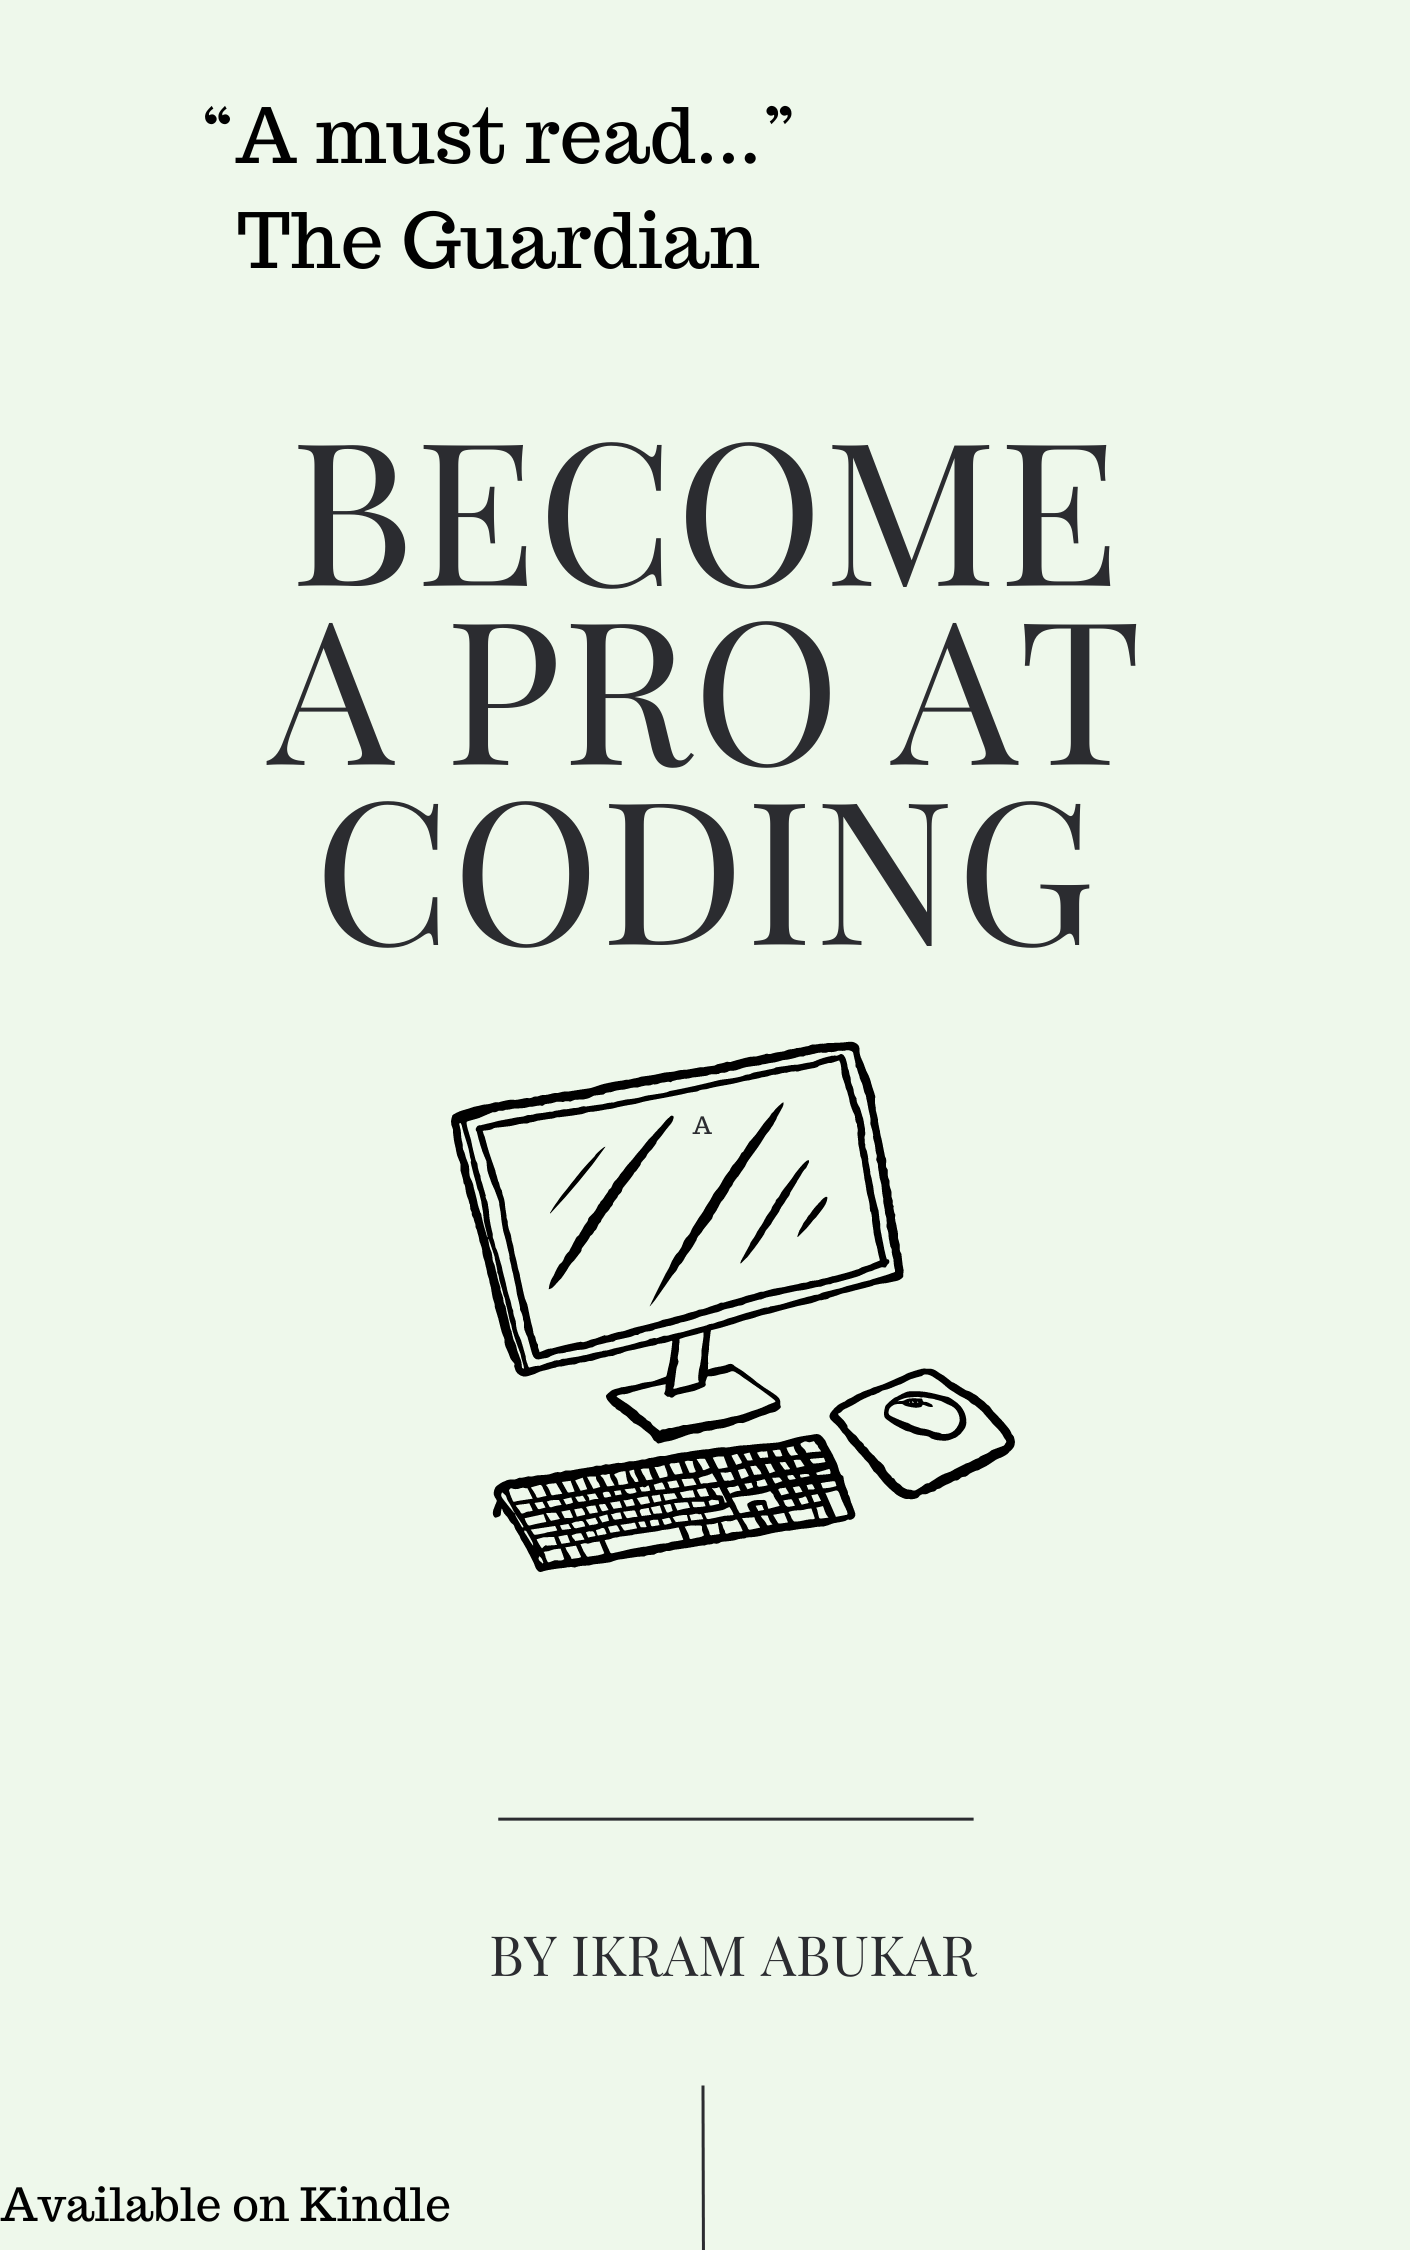
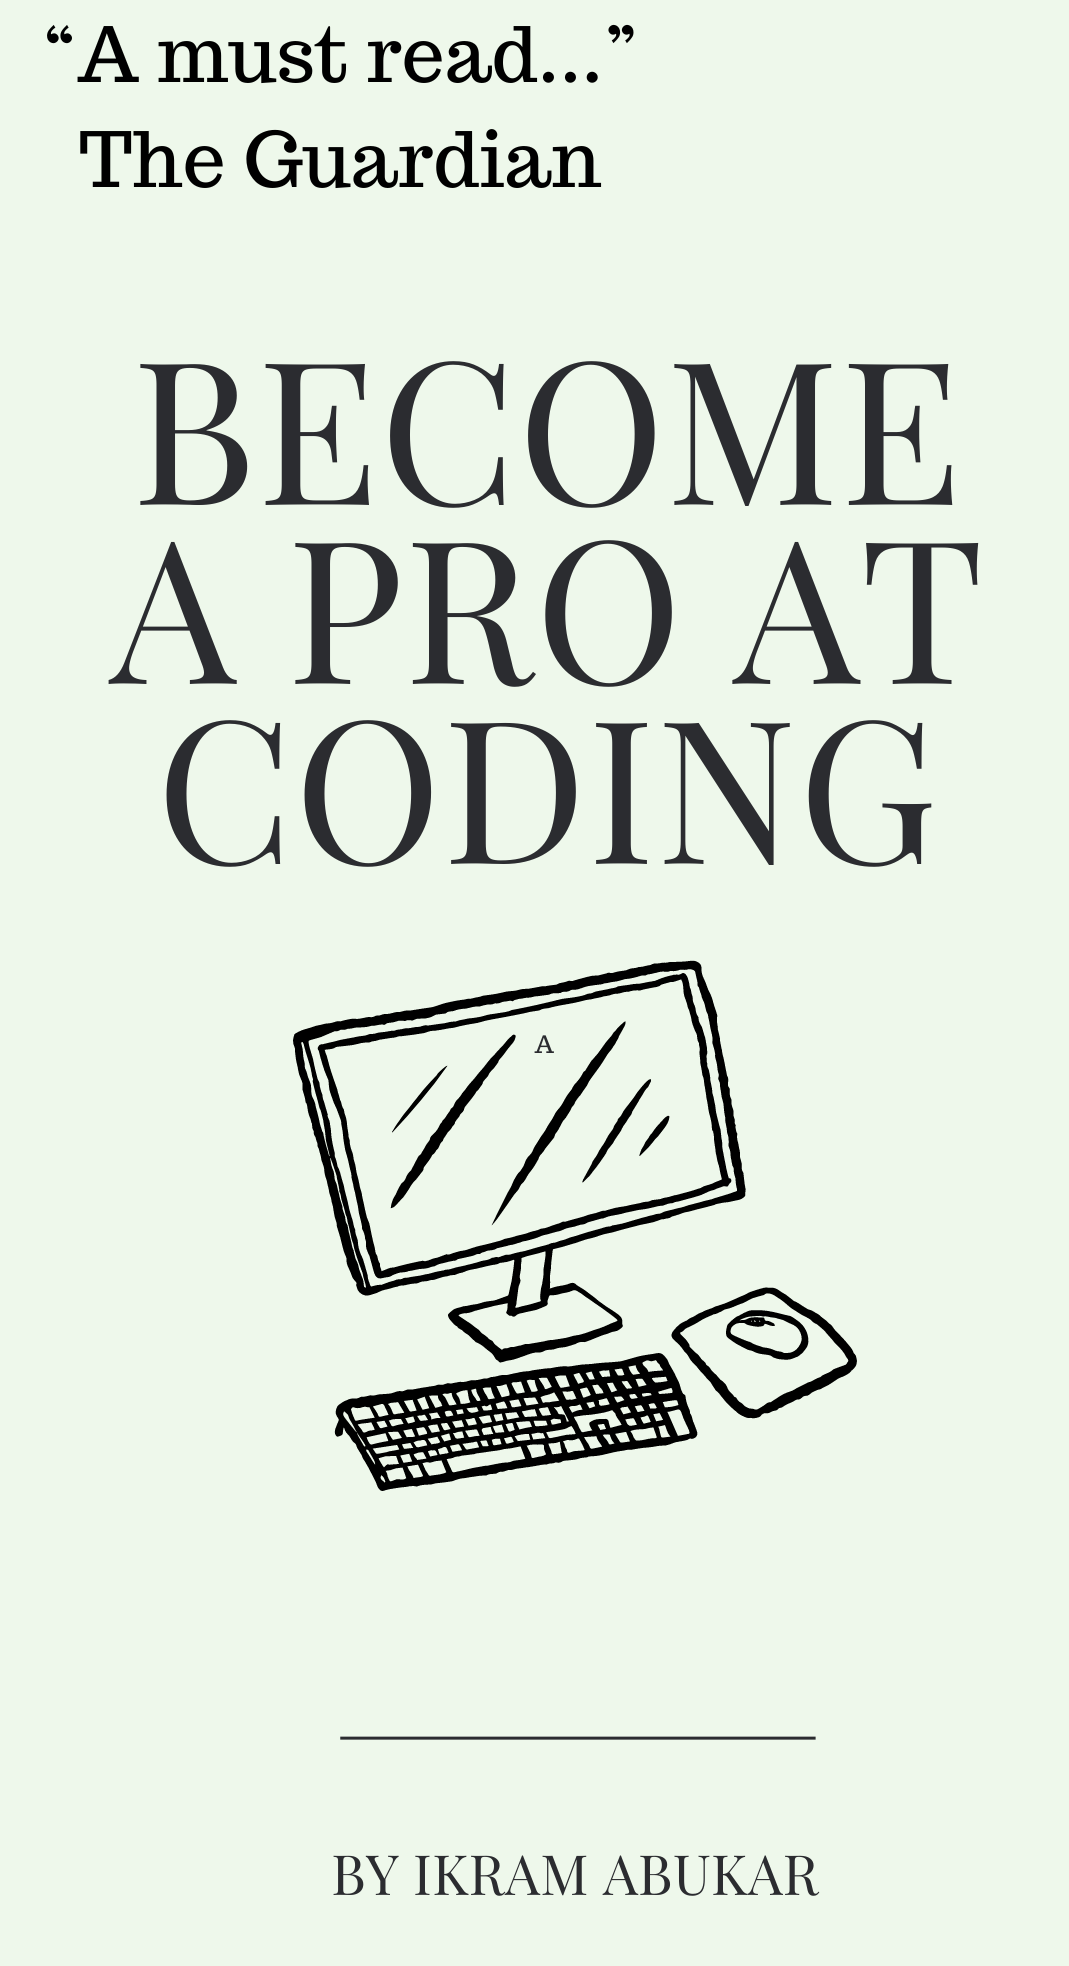
created an accordian + added book cover

diff --git a/index.html b/index.html
@@ -132,17 +132,99 @@ Become A Pro At Coding
         </div>
     </div>
 </div>
-      </div><!-- end container -->
-
-  
-
-
-
-
-
-
+      </div>
+      <!-- end container -->
 </section>
 
+<!--topics at a glance-->
+<section id="topics">
+    <div class="container-md">
+      <div class="text-center">
+        <h2>Inside the Book...</h2>
+        <p class="lead text-muted">A quick glance at the topics you'll learn</p>
+      </div>
+      <div class="row my-5 g-5 justify-content-around align-items-center">
+        <div class="col-6 col-lg-4">
+          <img src="/assets/KindleCover.png" class="img-fluid" alt="ebook">
+        </div>
+        <div class="col-lg-6">
+
+
+<!--accordian-->
+<div class="accordion" id="chapters">
+    <div class="accordion-item">
+      <h2 class="accordion-header" id="heading-1">
+        <button class="accordion-button" type="button" data-bs-toggle="collapse" data-bs-target="#chapter-1" aria-expanded="true" aria-controls="chapter-1">
+          Chapter 1 - Your First Web Page
+        </button>
+      </h2>
+      <div id="chapter-1" class="accordion-collapse collapse show" aria-labelledby="heading-1" data-bs-parent="#chapters">
+        <div class="accordion-body">
+          <p>Lorem, ipsum dolor sit amet consectetur adipisicing elit. Quis assumenda delectus sapiente quidem consequatur odit adipisci necessitatibus nemo aliquid minus modi tempore quibusdam quas vitae, animi ipsam nulla sunt alias.</p>
+          <p>Lorem, ipsum dolor sit amet consectetur adipisicing elit. Quis assumenda delectus sapiente quidem consequatur odit adipisci necessitatibus nemo aliquid minus modi tempore quibusdam quas vitae, animi ipsam nulla sunt alias.</p>
+        </div>
+      </div>
+    </div>
+    <div class="accordion-item">
+      <h2 class="accordion-header" id="heading-2">
+        <button class="accordion-button collapsed" type="button" data-bs-toggle="collapse" data-bs-target="#chapter-2" aria-expanded="false" aria-controls="chapter-2">
+            Chapter 2 - Mastering CSS
+
+        </button>
+    </h2>
+    <div id="chapter-2" class="accordion-collapse collapse" aria-labelledby="heading-2" data-bs-parent="#chapters">
+      <div class="accordion-body">
+        <p>Lorem, ipsum dolor sit amet consectetur adipisicing elit. Quis assumenda delectus sapiente quidem consequatur odit adipisci necessitatibus nemo aliquid minus modi tempore quibusdam quas vitae, animi ipsam nulla sunt alias.</p>
+        <p>Lorem, ipsum dolor sit amet consectetur adipisicing elit. Quis assumenda delectus sapiente quidem consequatur odit adipisci necessitatibus nemo aliquid minus modi tempore quibusdam quas vitae, animi ipsam nulla sunt alias.</p>
+      </div>
+    </div>
+  </div>
+  <div class="accordion-item">
+    <h2 class="accordion-header" id="heading-3">
+      <button class="accordion-button collapsed" type="button" data-bs-toggle="collapse" data-bs-target="#chapter-3" aria-expanded="false" aria-controls="chapter-1">
+        Chapter 3 - The Power of JavaScript
+    </button>
+</h2>
+<div id="chapter-3" class="accordion-collapse collapse" aria-labelledby="heading-3" data-bs-parent="#chapters">
+  <div class="accordion-body">
+    <p>Lorem, ipsum dolor sit amet consectetur adipisicing elit. Quis assumenda delectus sapiente quidem consequatur odit adipisci necessitatibus nemo aliquid minus modi tempore quibusdam quas vitae, animi ipsam nulla sunt alias.</p>
+    <p>Lorem, ipsum dolor sit amet consectetur adipisicing elit. Quis assumenda delectus sapiente quidem consequatur odit adipisci necessitatibus nemo aliquid minus modi tempore quibusdam quas vitae, animi ipsam nulla sunt alias.</p>
+  </div>
+</div>
+</div>
+<div class="accordion-item">
+<h2 class="accordion-header" id="heading-4">
+  <button class="accordion-button collapsed" type="button" data-bs-toggle="collapse" data-bs-target="#chapter-4" aria-expanded="false" aria-controls="chapter-4">
+    Chapter 4 - Storing Data (Firebase Databases)
+  </button>
+</h2>
+<div id="chapter-4" class="accordion-collapse collapse" aria-labelledby="heading-4" data-bs-parent="#chapters">
+  <div class="accordion-body">
+    <p>Lorem, ipsum dolor sit amet consectetur adipisicing elit. Quis assumenda delectus sapiente quidem consequatur odit adipisci necessitatibus nemo aliquid minus modi tempore quibusdam quas vitae, animi ipsam nulla sunt alias.</p>
+    <p>Lorem, ipsum dolor sit amet consectetur adipisicing elit. Quis assumenda delectus sapiente quidem consequatur odit adipisci necessitatibus nemo aliquid minus modi tempore quibusdam quas vitae, animi ipsam nulla sunt alias.</p>
+  </div>
+</div>
+</div>
+<div class="accordion-item">
+<h2 class="accordion-header" id="heading-5">
+  <button class="accordion-button collapsed" type="button" data-bs-toggle="collapse" data-bs-target="#chapter-5" aria-expanded="false" aria-controls="chapter-5">
+    Chapter 5 - User Authentication
+</button>
+</h2>
+<div id="chapter-5" class="accordion-collapse collapse" aria-labelledby="heading-5" data-bs-parent="#chapters">
+<div class="accordion-body">
+  <p>Lorem, ipsum dolor sit amet consectetur adipisicing elit. Quis assumenda delectus sapiente quidem consequatur odit adipisci necessitatibus nemo aliquid minus modi tempore quibusdam quas vitae, animi ipsam nulla sunt alias.</p>
+  <p>Lorem, ipsum dolor sit amet consectetur adipisicing elit. Quis assumenda delectus sapiente quidem consequatur odit adipisci necessitatibus nemo aliquid minus modi tempore quibusdam quas vitae, animi ipsam nulla sunt alias.</p>
+</div>
+</div>
+</div>
+</div>
+
+</div>
+</div>
+</div>
+
+</section>
 
 
     <script
